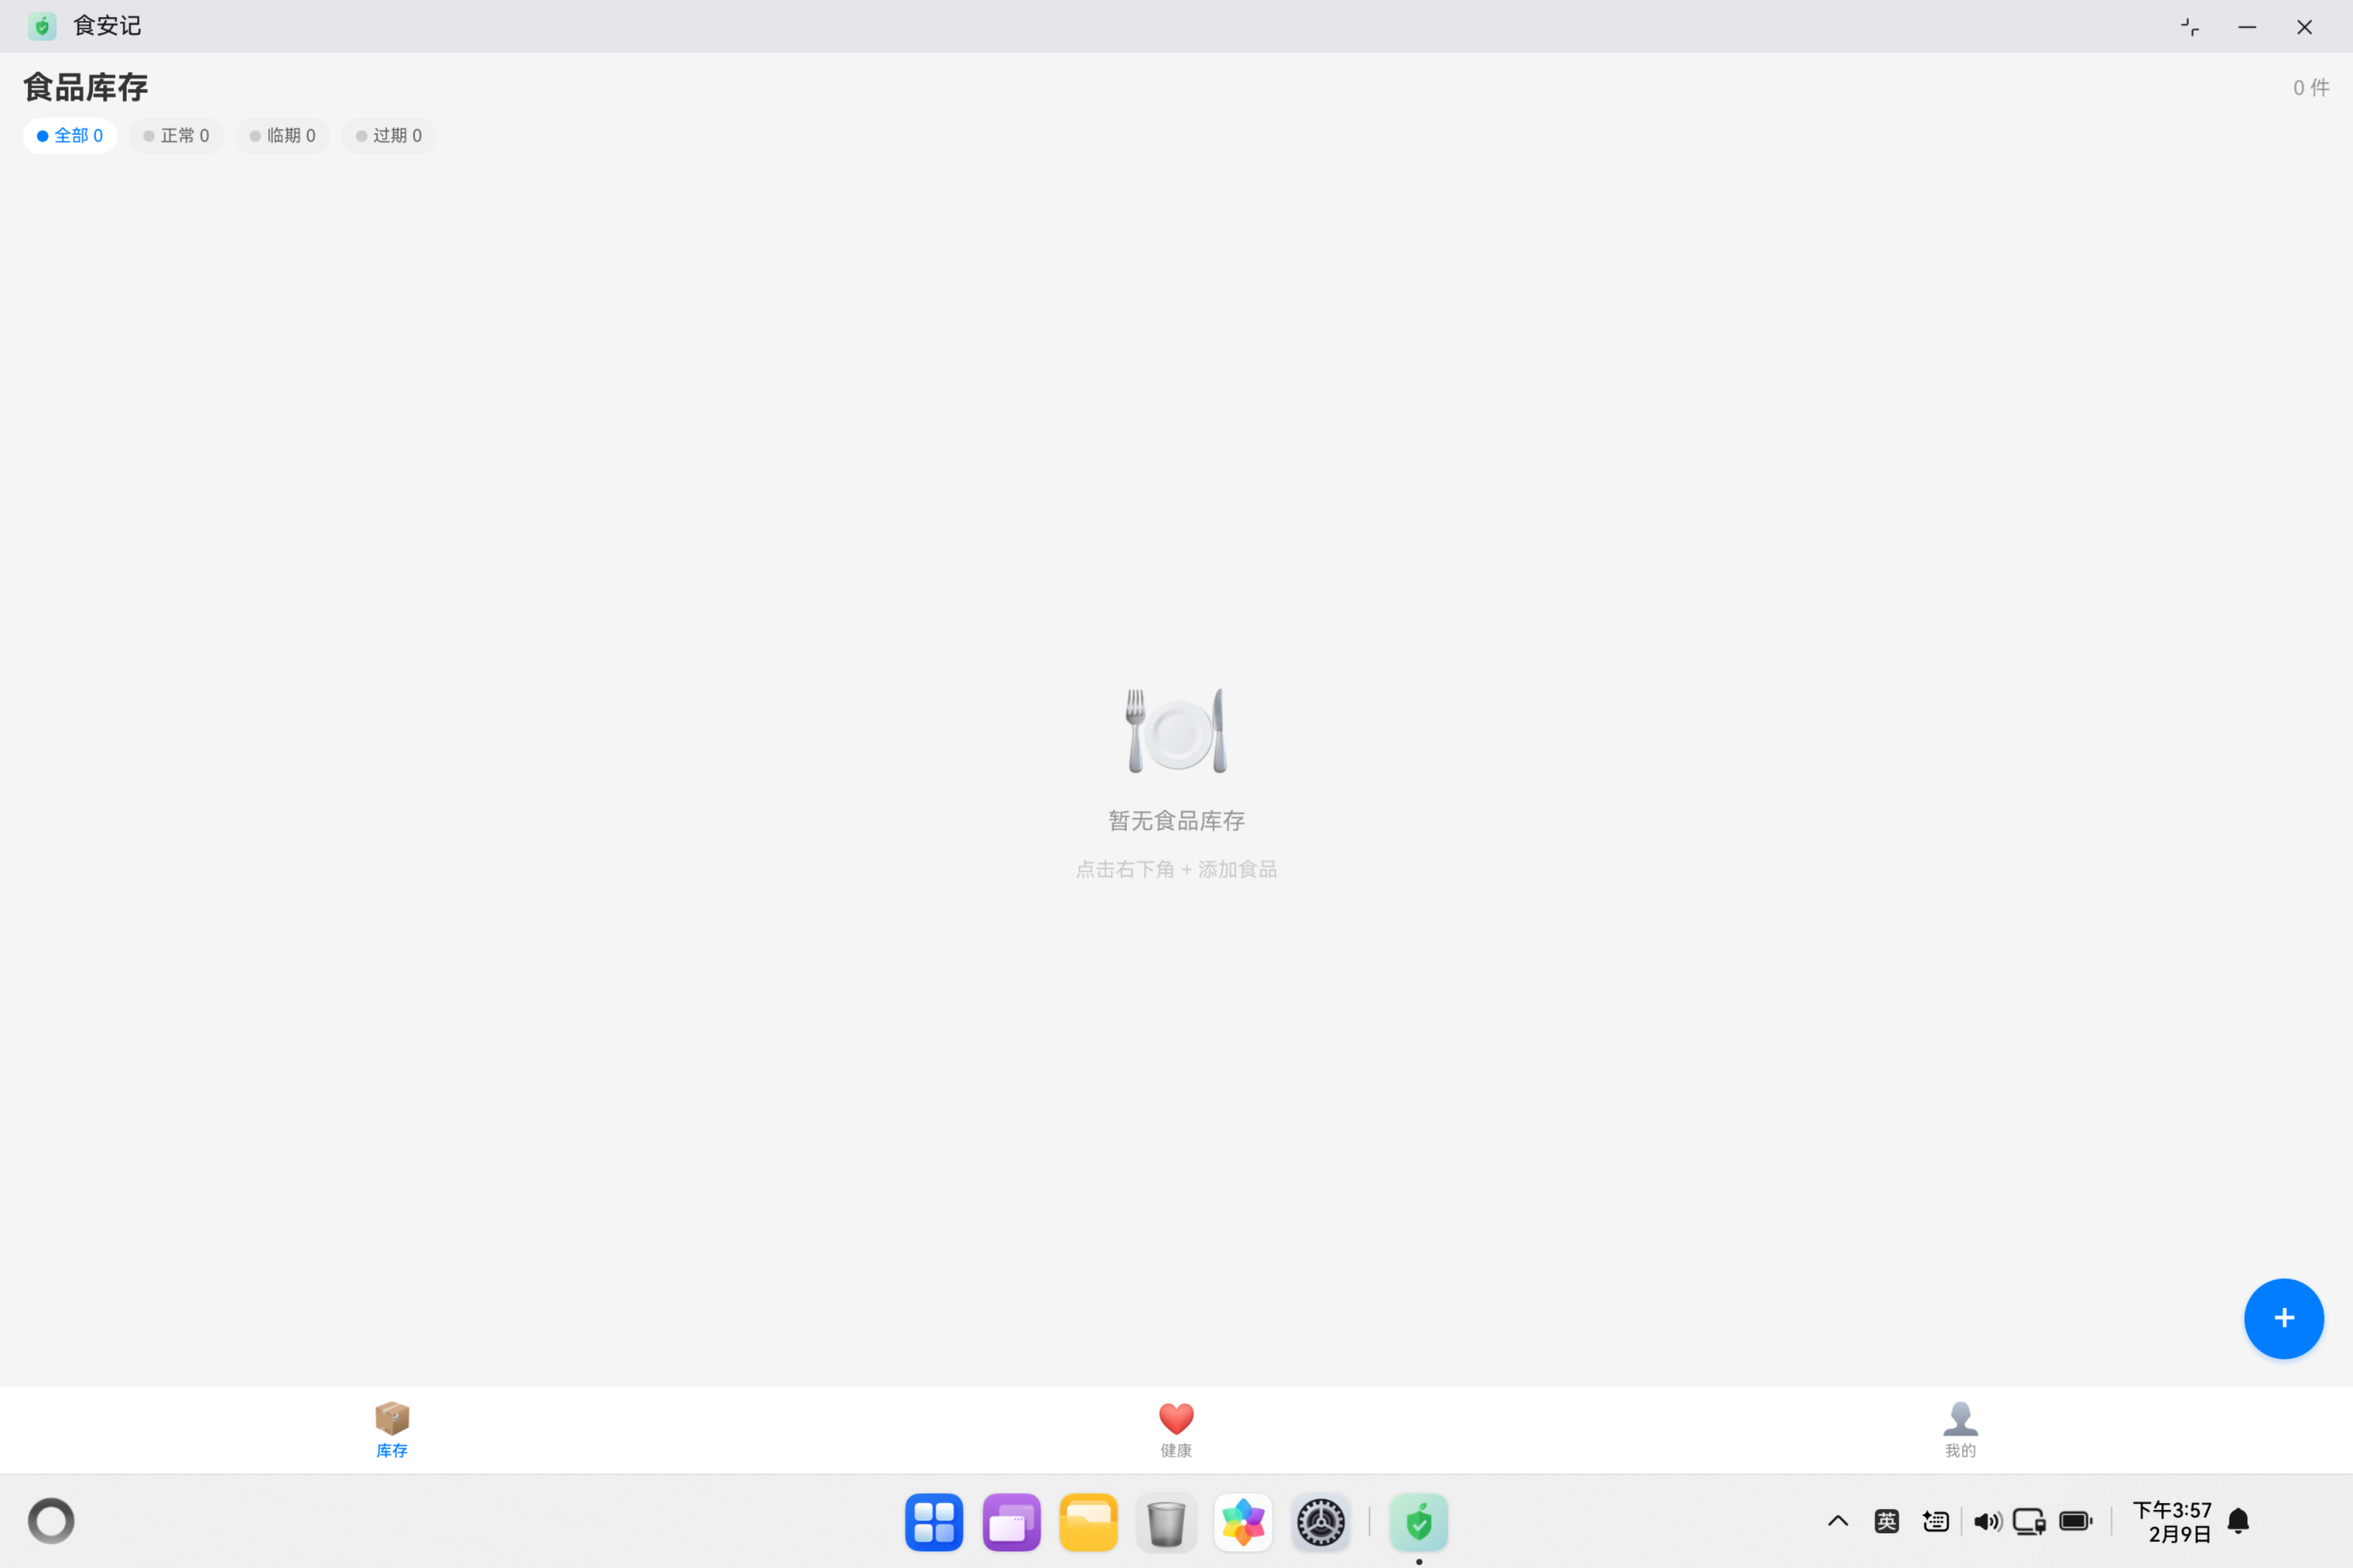
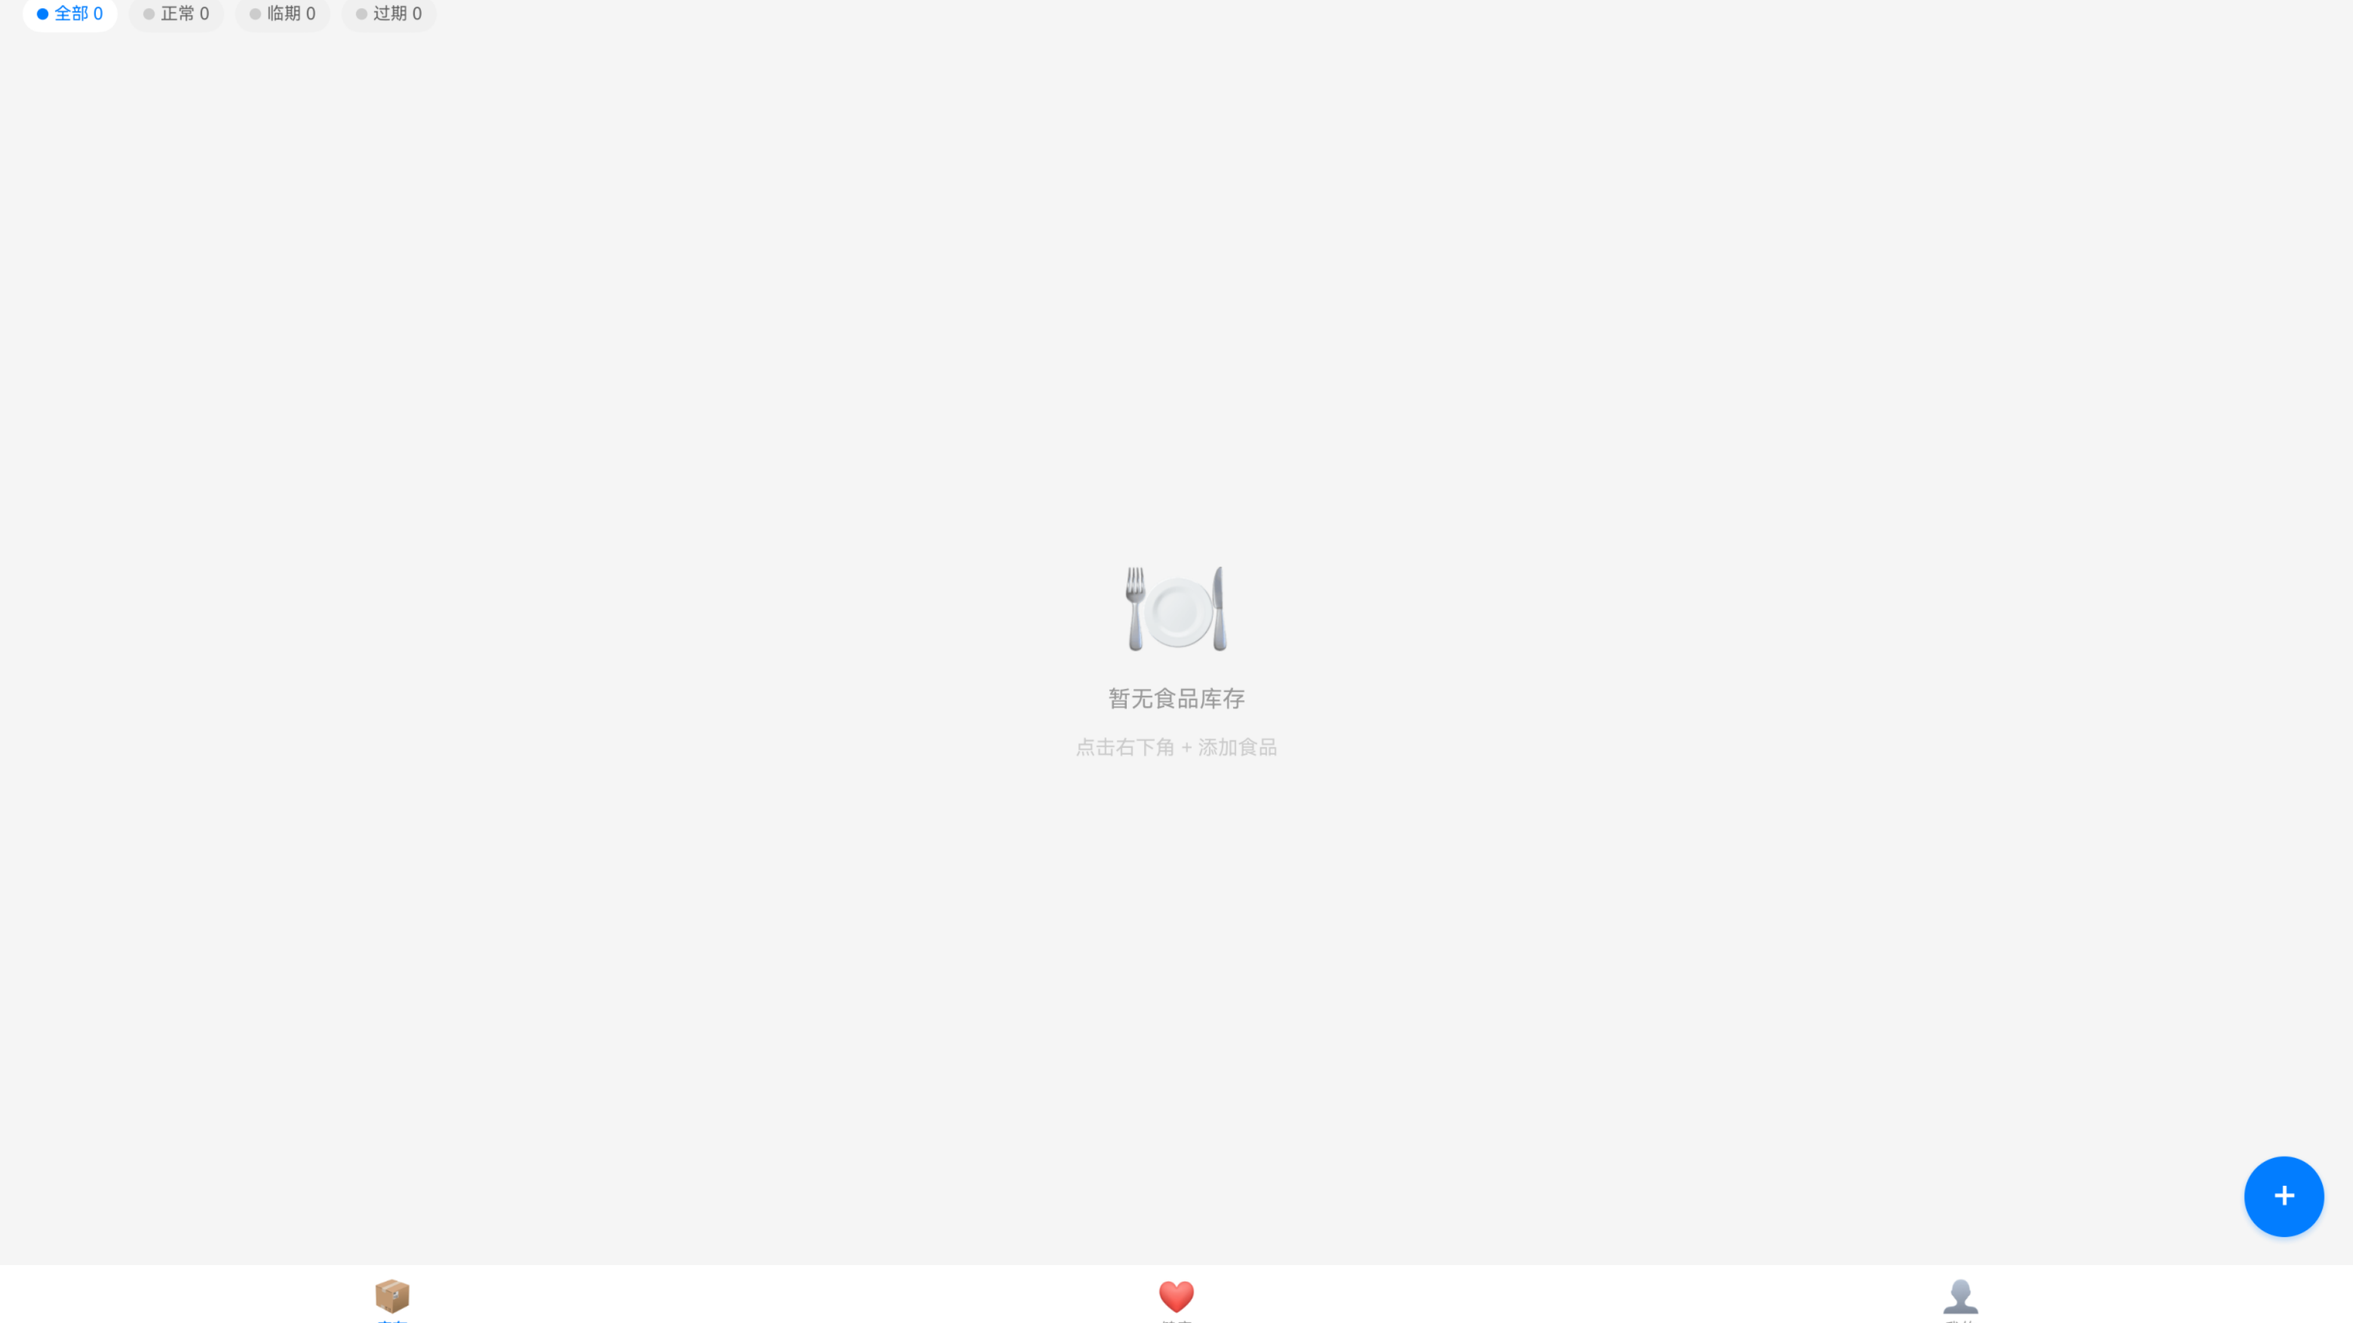
重新设计项目 - 完全重写

diff --git a/process_screenshots.py b/process_screenshots.py
@@ -3,14 +3,11 @@ import os
 from PIL import Image, ImageEnhance, ImageFilter
 import shutil
 
-def resize_image(img, target_width, target_height, force_size=False):
-    """调整图片尺寸，保持宽高比或强制尺寸"""
+def resize_image_with_aspect_ratio(img, target_width, target_height, background_color=(0, 0, 0)):
+    """调整图片尺寸，保持宽高比，用背景色填充"""
     original_width, original_height = img.size
     original_ratio = original_width / original_height
     target_ratio = target_width / target_height
-    
-    if force_size:
-        return img.resize((target_width, target_height), Image.Resampling.LANCZOS)
     
     if original_ratio > target_ratio:
         new_width = target_width
@@ -21,20 +18,42 @@ def resize_image(img, target_width, target_height, force_size=False):
     
     resized = img.resize((new_width, new_height), Image.Resampling.LANCZOS)
     
-    new_img = Image.new('RGB', (target_width, target_height), (0, 0, 0))
+    new_img = Image.new('RGB', (target_width, target_height), background_color)
     paste_x = (target_width - new_width) // 2
     paste_y = (target_height - new_height) // 2
     new_img.paste(resized, (paste_x, paste_y))
     
     return new_img
 
-def create_featured_image(img, width, height):
-    """创建推荐图片，添加一些视觉效果"""
-    img = img.resize((width, height), Image.Resampling.LANCZOS)
-    enhancer = ImageEnhance.Contrast(img)
-    img = enhancer.enhance(1.1)
-    enhancer = ImageEnhance.Brightness(img)
-    img = enhancer.enhance(1.05)
+def crop_or_pad_to_aspect_ratio(img, aspect_ratio=16/9):
+    """裁剪或填充图片到指定宽高比"""
+    original_width, original_height = img.size
+    original_ratio = original_width / original_height
+    
+    if original_ratio == aspect_ratio:
+        return img
+    
+    if original_ratio > aspect_ratio:
+        new_width = int(original_height * aspect_ratio)
+        left = (original_width - new_width) // 2
+        right = left + new_width
+        return img.crop((left, 0, right, original_height))
+    else:
+        new_height = int(original_width / aspect_ratio)
+        top = (original_height - new_height) // 2
+        bottom = top + new_height
+        return img.crop((0, top, original_width, bottom))
+
+def create_featured_image(img, width, height, enhance=True):
+    """创建推荐图片"""
+    img = resize_image_with_aspect_ratio(img, width, height, (30, 30, 30))
+    if enhance:
+        enhancer = ImageEnhance.Contrast(img)
+        img = enhancer.enhance(1.15)
+        enhancer = ImageEnhance.Brightness(img)
+        img = enhancer.enhance(1.08)
+        enhancer = ImageEnhance.Sharpness(img)
+        img = enhancer.enhance(1.1)
     return img
 
 def process_tv_screenshots():
@@ -45,12 +64,12 @@ def process_tv_screenshots():
     if not os.path.exists(backup_dir):
         shutil.copytree(tv_dir, backup_dir)
     
-    files = [f for f in os.listdir(tv_dir) if f.endswith('.png')]
+    files = [f for f in os.listdir(tv_dir) if f.endswith('.png') and 'recommended' not in f]
     
     for file in files:
         img_path = os.path.join(tv_dir, file)
         img = Image.open(img_path).convert('RGB')
-        resized = resize_image(img, 1920, 1080)
+        resized = resize_image_with_aspect_ratio(img, 1920, 1080)
         resized.save(img_path, 'PNG', optimize=True)
         print(f'处理TV截图: {file} -> 1920x1080')
     
@@ -80,7 +99,7 @@ def process_wearable_screenshots():
     for file in files:
         img_path = os.path.join(wearable_dir, file)
         img = Image.open(img_path).convert('RGB')
-        resized = resize_image(img, 840, 840)
+        resized = resize_image_with_aspect_ratio(img, 840, 840, (20, 20, 20))
         resized.save(img_path, 'PNG', optimize=True)
         print(f'处理wearable截图: {file} -> 840x840')
 
@@ -99,12 +118,19 @@ def process_pc_screenshots():
         img = Image.open(img_path).convert('RGB')
         width, height = img.size
         
-        if width < 1920 or height < 1080:
-            resized = resize_image(img, 1920, 1080)
+        print(f'PC截图原始尺寸: {file} -> {width}x{height}')
+        
+        img_cropped = crop_or_pad_to_aspect_ratio(img, 16/9)
+        
+        cropped_width, cropped_height = img_cropped.size
+        
+        if cropped_width < 1920 or cropped_height < 1080:
+            resized = resize_image_with_aspect_ratio(img_cropped, 1920, 1080)
             resized.save(img_path, 'PNG', optimize=True)
-            print(f'处理PC截图: {file} -> 1920x1080')
+            print(f'处理PC截图: {file} -> 1920x1080 (16:9)')
         else:
-            print(f'PC截图: {file} -> 尺寸已满足要求 ({width}x{height})')
+            img_cropped.save(img_path, 'PNG', optimize=True)
+            print(f'处理PC截图: {file} -> {cropped_width}x{cropped_height} (16:9)')
 
 if __name__ == '__main__':
     print('开始处理截图...\n')
